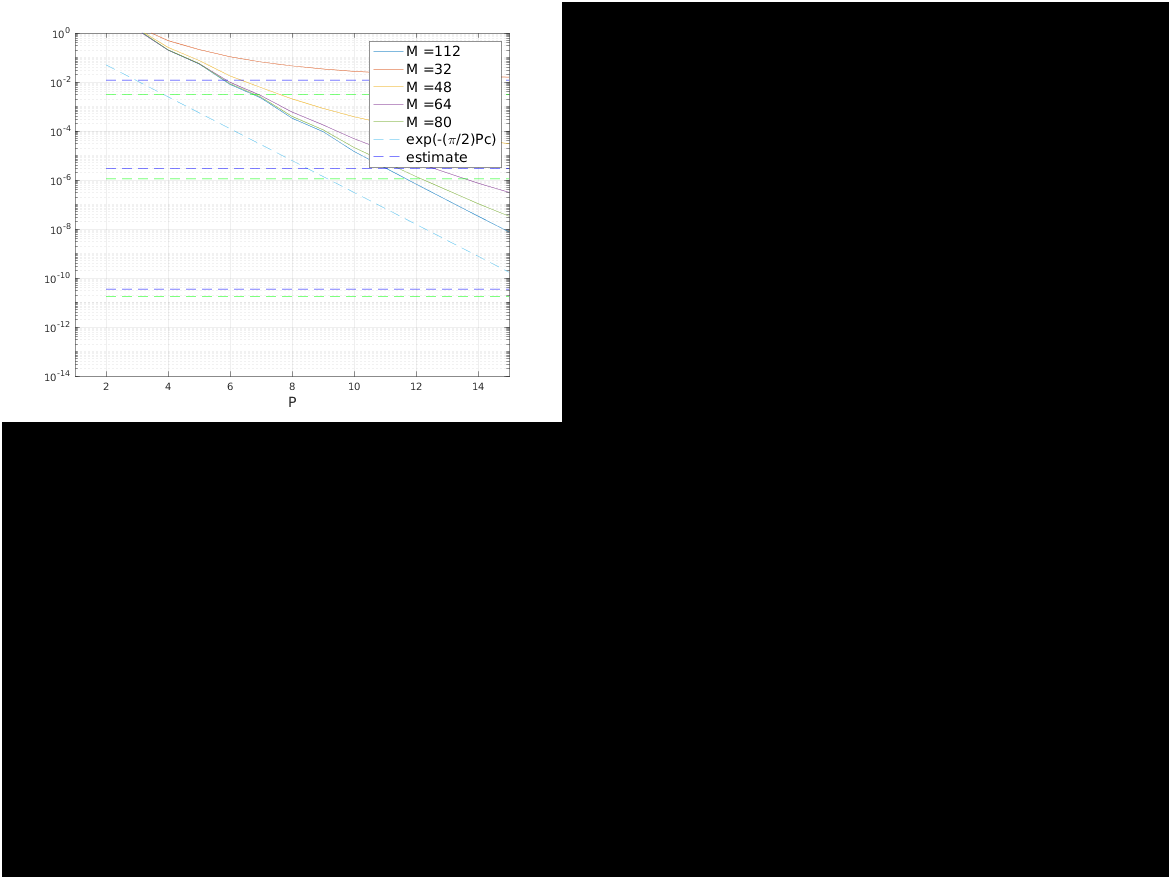
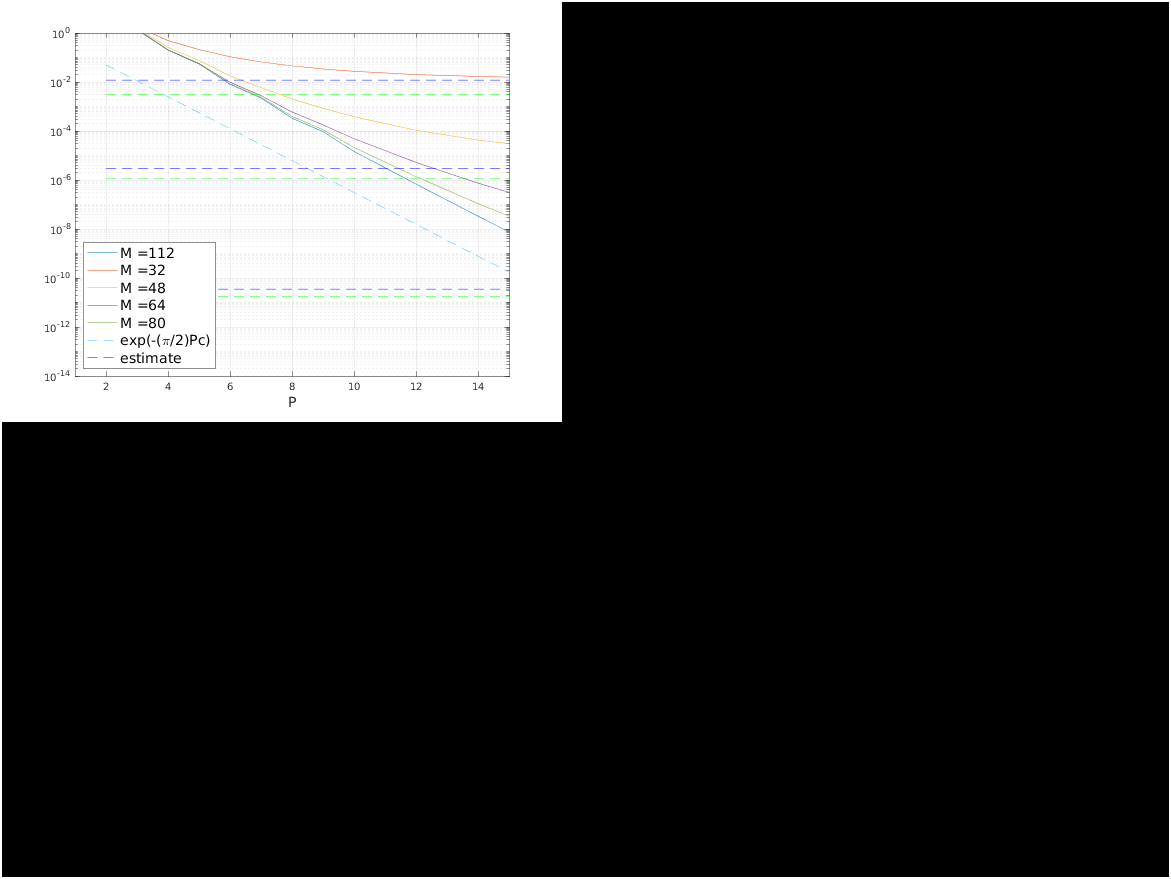
img

Changed region(s): [[0.3074, 0.0307, 0.4304, 0.1843], [0.0922, 0.2765, 0.1845, 0.43]]

diff --git a/SE_Stokes_run/SE3P_Stokes/P_error.m b/SE_Stokes_run/SE3P_Stokes/P_error.m
@@ -97,7 +97,7 @@ for i = 1:length(e_vec)
 end
 str = [str,'estimate'];
 opt
-legend(str,'FontSize',14)
+legend(str,'FontSize',14,'Location','SouthWest')
 xlabel('P','FontSize',14)
 xlim([1,32])
 ylim([10^-14,1])
